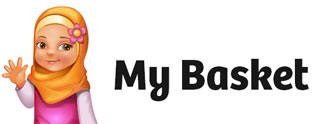
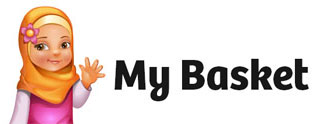
more fixes from the doc

Changed region(s): [[0.0, 0.0484, 0.3407, 1.0]]

diff --git a/Presentation/Nop.Web/Themes/DefaultClean/Content/styles.css b/Presentation/Nop.Web/Themes/DefaultClean/Content/styles.css
@@ -2082,10 +2082,9 @@ li.sub-menu-active > a,
 .shopping-cart-page,.wishlist-page {
 }
 
-.checkoutpage h1,
-.shoppingcart-page h1 {
+.checkoutpage h1, .shoppingcart-page h1 {
 	background: url(images/mybasket.jpg) no-repeat 0 0;
-	height: 145px;
+	height: 125px;
 	padding: 0;
 	text-indent: -9999px;
 	overflow: hidden;
@@ -2255,16 +2254,15 @@ select#checkout_attribute_1 {
 	font-weight: 700;
 }
 
-.order-summary-content .cart .cart-header-row th,.wishlist-content .cart .cart-header-row th {
-	background: none repeat scroll 0 0 #ce143d;
-	color: #FFF;
-	border-right: solid 1px #fff;
+.order-summary-content .cart .cart-header-row th {
+	background: #fff;
+	color: #666;
 	height: 42px;
 	padding: 3px 22px;
 	vertical-align: middle;
 	white-space: nowrap;
 	font-size: 13px;
-	text-align: center;
+	text-align: left;
 }
 
 .order-summary-content .cart .cart-header-row th.picture,.wishlist-content .cart .cart-header-row th.picture {
@@ -2331,6 +2329,8 @@ select#checkout_attribute_1 {
 .order-summary-content .total-info {
 	margin: 0;
 	font-size: 12px;
+	float: right;
+	width: 230px;
 }
 
 .order-summary-content .total-info .selected-shipping-method {
@@ -2344,11 +2344,36 @@ select#checkout_attribute_1 {
 
 .cart-total-left {
 	width: 100%;
-	text-align: right;
+	text-align: left;
 	vertical-align: middle;
 	height: 21px;
 	font-weight: 700;
-	color: #353434;
+	color: #666;
+}
+
+.continue-shopping-button {
+	background: #FFF;
+	color: #666;
+	margin-top: -2px;
+	margin-right: 11px;
+	border: none;
+}
+
+.order-top-btns {
+	float: right;
+	margin-top: -90px;
+}
+
+.checkout-page .order-top-btns {
+	display: none;
+}
+
+.cart-total tr:last-child td * {
+	font-size: 21px;
+}
+
+.cart-total tr:last-child .cart-total-left {
+	color: #000;
 }
 
 .cart-total-left-below {
@@ -2462,6 +2487,11 @@ select#checkout_attribute_1 {
 .order-summary-content .terms-of-service {
 	margin: 0;
 	padding: 10px 0 10px 10px;
+	clear: both;
+}
+
+#terms-of-service-warning-box {
+	color: red;
 }
 
 .order-summary-content .terms-of-service .read {
@@ -2580,6 +2610,32 @@ select#checkout_attribute_1 {
 	width: 100%;
 }
 
+.one-page-checkout .header {
+	height: 87px;
+	background: #000;
+	border-top: 8px solid #EEE;
+	margin-top: 20px;
+	border-bottom: none;
+}
+
+.one-page-checkout .header .logo-site {
+	background: url(images/checkout-logo.jpg) no-repeat 0 2px;
+	float: right;
+	height: 83px;
+	width: 308px;
+	margin: 0;
+}
+
+.one-page-checkout .header .logo-site img {
+	display: none;
+}
+
+.one-page-checkout .header-logo a.burger-menu,
+.one-page-checkout .search-box,
+.one-page-checkout .main-menu,
+.one-page-checkout .header-links-wrapper {
+	display: none;
+}
 
 .checkout-page, .checkout-one-page {
 }
@@ -2694,6 +2750,7 @@ select#checkout_attribute_1 {
 }
 
 .checkout-data .pickup-in-store {
+	display: none;
 	border: 1px solid #EEE;
 	height: auto;
 	padding: 10px;
@@ -2858,6 +2915,10 @@ select#checkout_attribute_1 {
 	text-align: left;
 }
 
+.checkout-data .order-review-data li.fax {
+	display: none;
+}
+
 .checkout-data .order-review-data li:first-child {
 	margin-top: 0;
 }
@@ -2916,6 +2977,28 @@ select#checkout_attribute_1 {
 	background: url(images/thankyou.png) no-repeat center;
 	height: 270px;
 	margin-top: -212px;
+}
+
+.thank-you-links {
+	margin-top: 40px;
+	margin-bottom: 50px;
+	text-align: center;
+}
+
+.thank-you-share {
+	margin-top: 0;
+}
+
+.thank-you-links > div {
+	float: right;
+	width: 33%;
+	margin-bottom: 80px;
+}
+
+.thank-you-links h3 {
+	color: #DF0C3D;
+	font-size: 23px;
+	margin-bottom: 10px;
 }
 
 .order-progress {
@@ -4179,6 +4262,10 @@ select#checkout_attribute_1 {
 	text-align: center;
 	padding: 25px 0;
 	font-size: 13px;
+}
+
+.ordercompleted .top-banner {
+	display: none;
 }
 
 .top-message-special {
